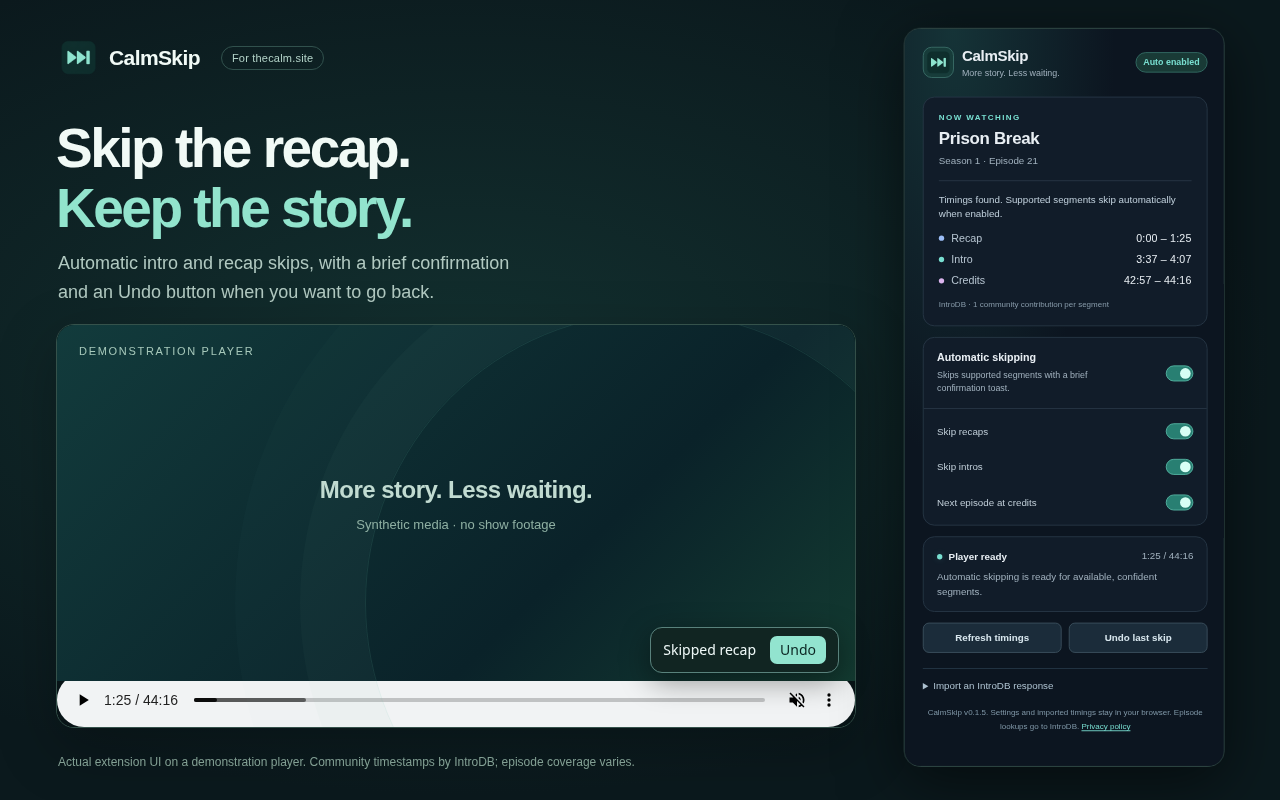
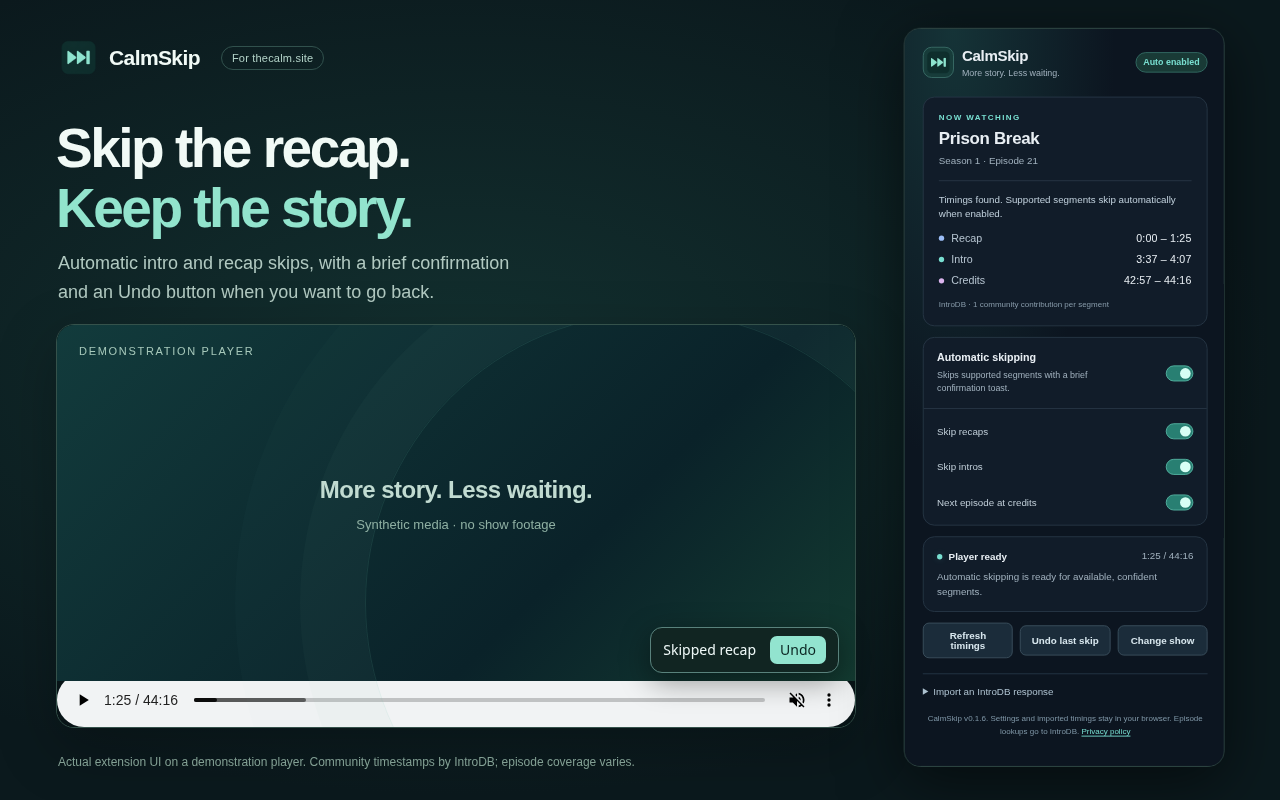
Prepare 0.1.6 update for the public CalmSkip listing

Changed region(s): [[0.7188, 0.7812, 0.9375, 0.9375]]

diff --git a/docs/store/SUBMISSION.md b/docs/store/SUBMISSION.md
@@ -1,6 +1,6 @@
 # CalmSkip submission fields and review instructions
 
-This file accompanies the release ZIP, icon, screenshots, [listing copy](LISTING.md), and [privacy policy](PRIVACY.md). It does not assert that a store item has been uploaded, approved, or published.
+These fields accompany the **0.1.6 update** ZIP, icon, screenshots, [listing copy](LISTING.md), and [privacy policy](PRIVACY.md). The existing public store version is 0.1.5; preparing these files does not upload or submit its update.
 
 ## Privacy practices: single purpose
 
@@ -12,27 +12,27 @@ Use the fields corresponding to the final release manifest. These descriptions c
 
 | Permission or host | Paste-ready justification |
 | --- | --- |
-| `storage` | Save the user's skip preferences, show-to-IMDb mappings, and a bounded local timestamp cache. Browser-session storage also keeps verified player frame associations so connected players survive background-worker suspension. These records are not synced to a developer server. |
+| `storage` | Save the user's skip preferences, show-to-IMDb mappings, and bounded local timestamp and automatic series-identification caches. Browser-session storage also keeps verified player frame associations so connected players survive background-worker suspension. These records are not synced to a developer server. |
 | `scripting` | Run the extension's packaged player controller and frame verification code inside an embedded video player after the user grants access to that host. This is necessary to read the HTML video's current time and perform the selected skip or Undo. No executable code is downloaded. |
 | `webNavigation` | Identify the frame/document hierarchy within a TheCalm episode tab and reconnect an already granted player when its document loads or redirects. Navigation events outside the supported episode context are discarded, rather than recorded as browsing history. |
 | `https://thecalm.site/*` and `https://www.thecalm.site/*` | Identify the current show, season, and episode; read primary metadata and visible player frames; display skip controls and confirmations; and follow the site's actual next-episode link. The extension can read a same-origin show/season page to resolve an episode chooser. |
-| `https://api.introdb.app/*` | Request community intro, recap, and credit timestamps using the current IMDb series ID, season, and episode. These HTTPS requests omit cookies and the page referrer. |
+| `https://api.introdb.app/*` | Request community intro, recap, and credit timestamps using the current IMDb series ID, season, and episode. When no series ID is available, search metadata using the show title derived from its URL. Requests omit cookies and the page referrer; full page/player URLs are not sent. |
 | Optional `https://*/*` | TheCalm embeds players on different HTTPS hosts, so their names cannot all be declared in advance. The extension requests access only to the particular player origin selected by the user with Connect player. It verifies the player belongs to the visible TheCalm embed before controlling it. It does not request access to every HTTPS site or operate those controls in unrelated tabs. |
 
 ### Remote code
 
-Answer **No** to using remotely hosted executable code. The player controller, background worker, popup, and frame verification functions are packaged in the extension. IntroDB supplies validated timestamp JSON, not executable code. Reading a TheCalm episode catalog supplies links, not code to evaluate.
+Answer **No** to using remotely hosted executable code. The player controller, background worker, popup, and frame verification functions are packaged in the extension. IntroDB supplies validated timestamps and series-identification JSON, not executable code. Reading a TheCalm episode catalog supplies links, not code to evaluate.
 
 ## Data usage disclosures
 
-Do not use a blanket “no user data” declaration. The extension handles the current episode's page/player information locally and sends episode identifiers to IntroDB. Google's [User Data FAQ](https://developer.chrome.com/docs/webstore/program-policies/user-data-faq) requires disclosure even when data stays on the device.
+Do not use a blanket “no user data” declaration. The extension handles the current episode's page/player information locally and sends episode identifiers, or the show title when needed for identification, to IntroDB. Google's [User Data FAQ](https://developer.chrome.com/docs/webstore/program-policies/user-data-faq) requires disclosure even when data stays on the device. Automatic show matches are cached locally, separately from saved mappings and cached timestamps; the privacy policy describes their limits and retention.
 
 Based on the current implementation, disclose these relevant categories using the dashboard's current definitions:
 
 | Category | What CalmSkip handles |
 | --- | --- |
-| Web history / browsing activity | The current TheCalm episode address and connected player addresses are processed to identify the supported episode and frames. IMDb series ID, season, and episode are sent to IntroDB for the requested feature. No general browsing-history log is created. |
-| Website content | Primary show/episode metadata, episode links, embedded player elements, video properties, and the timestamp response are read to operate the player. Video/audio content is not recorded or uploaded. |
+| Web history / browsing activity | The current TheCalm episode address and connected player addresses are processed to identify the supported episode and frames. IMDb series ID, season, and episode, or a show title when identification is needed, are sent to IntroDB for the requested feature. No general browsing-history log is created. |
+| Website content | Primary show/episode metadata, episode links, embedded player elements, video properties, timestamps, and series search results are read to operate the player. Video/audio content is not recorded or uploaded. |
 | User activity | Current playback position and play/pause/seek state, together with the user's extension controls, are used to decide and undo skips. There is no general click, keyboard, or advertising analytics logging. |
 
 The implementation does not read names, contact details, payment/health information, passwords, authentication cookies, private communications, or geolocation. Browser-managed same-origin cookies attached to a normal TheCalm request are not read or exported by the extension. IntroDB can receive ordinary network information such as IP addresses; that disclosure appears in the privacy policy, without claiming that CalmSkip reads geolocation.
@@ -62,12 +62,14 @@ Paste and complete the following private test instructions:
 7. Near 42:57, the credit marker should start a three-second next-episode countdown. Cancel keeps the episode open. Without cancellation, the extension follows a verified next-episode link, including through an episode chooser when supported. This intentionally can skip post-credit scenes.
 8. Turn Automatic skipping off to check manual controls. Turn individual feature switches off to verify they are respected. Reloading preserves the chosen settings and granted host access.
 9. An episode without usable timestamp data should keep playing without fabricated skip ranges. Community timing and availability can change; the privacy policy and listing explain these limits.
+10. For the 0.1.6 identification update, open `https://thecalm.site/shows/better-call-saul/season-1/episode-1?pl=0`. With usable IntroDB data, it should identify IMDb `tt3032476` without a manual mapping. Playing from about 6:05 should skip to 6:15 using the saved public fixture's intro range; there is no recap marker for this example. Ambiguous series can be chosen in the popup, and **Change show** allows a mapping correction. See [checked examples](../OTHER_SHOWS.md) for coverage limits.
 
 For an API outage only, the popup's Import an IntroDB response accepts the matching public response saved in `tests/fixtures/prison-break-s01e21.json`. This imports timestamp JSON, not video or executable code. A matching import is not a substitute for a playable TheCalm episode.
 
 ## Distribution and final submission
 
 - Visibility: **Public**, as requested by the publisher.
+- For 0.1.6, use **Package → Upload new package** on the existing CalmSkip item, rather than creating another item. Update the `storage` and IntroDB host explanations above; there are no added permissions, hosts, or data categories.
 - Upload the release ZIP containing `manifest.json` at its root; do not upload a ZIP containing the whole repository or a nested ZIP.
 - Upload the 128×128 extension icon and at least one screenshot at the dimensions required by the dashboard. Keep screenshots consistent with the released UI.
 - Complete the publisher/account contact verification, privacy fields, and private reviewer access instructions.

diff --git a/docs/CHROME_WEB_STORE.md b/docs/CHROME_WEB_STORE.md
@@ -22,7 +22,7 @@ The unpacked extension remains the development version:
 - After a change, click **Reload** for CalmSkip in `brave://extensions`, then reopen the episode. An unpacked extension does not automatically reload when its files change.
 - The store account is not used by the sync script. Development updates do not require a store review.
 
-A later store release is a separate workflow:
+A first store release is a separate workflow:
 
 1. Run the tests and package command from the repository, or download the package artifact from a passing **Checks** run in GitHub Actions. Extract the downloaded artifact and use the contained `thecalm-skip.zip` for the store upload.
 2. Prepare the store listing assets, screenshots, description, privacy disclosures, and testing instructions. The existing development ZIP is not proof that those submission requirements are complete.
@@ -41,19 +41,33 @@ All visibility options still undergo Google's review. Do not expect an unlisted 
 
 Brave supports installing Chrome Web Store extensions through the listing's **Add to Brave** button. Once the store version is installed, disable the unpacked development copy when using the store version so two copies do not operate on the same player.
 
-## Publish CalmSkip 0.1.5
+## Update the existing listing to 0.1.6
 
-The prepared release is **public and searchable**. It includes the original mint/teal skip icon and the actual extension interface in clearly labeled demonstration screenshots. These assets do not claim that the demonstration video is a playable episode from TheCalm.
+[CalmSkip is public](https://chromewebstore.google.com/detail/calmskip/ffikdfibljniiabnkgpihdpdhheammlo) at **v0.1.5**. Version **0.1.6** adds automatic series identification beyond Prison Break, show-match selection and correction, and clearer missing-timestamp status. A GitHub push or local sync does not update the store: upload the new ZIP to the **existing item**, then submit that update for review.
 
-Stop an existing watcher with **Ctrl+C** before pulling, because the rename also updates its compatibility checks. Then create the upload ZIP using Windows PowerShell; Node.js and Python are unnecessary for this step:
+Stop an existing watcher with **Ctrl+C** before pulling. In the Windows `development` checkout, create the upload ZIP using PowerShell; Node.js and Python are unnecessary for this step:
 
 ```powershell
 Set-Location "$HOME\source\TheCalm"
 git pull --ff-only
-Compress-Archive -Path .\extension\* -DestinationPath "$HOME\Downloads\CalmSkip-0.1.5.zip" -Force
+Get-Content .\extension\manifest.json | ConvertFrom-Json | Select-Object name, version
+Compress-Archive -Path .\extension\* -DestinationPath "$HOME\Downloads\CalmSkip-0.1.6.zip" -Force
 ```
 
-The ZIP must contain `manifest.json` at its root, alongside the extension scripts and `icons` folder. Upload **CalmSkip-0.1.5.zip** from Downloads using **Add new item** in the developer dashboard.
+Confirm the version output is **0.1.6**. The ZIP must contain `manifest.json` at its root, alongside the extension scripts and `icons` folder.
+
+1. Open the [existing CalmSkip dashboard item](https://chrome.google.com/webstore/devconsole/ab89a478-5b96-48cb-a4d0-1d83c227760c/ffikdfibljniiabnkgpihdpdhheammlo/edit/package).
+2. Under **Package**, choose **Upload new package**, select **CalmSkip-0.1.6.zip** from Downloads, and confirm the draft package version.
+3. Refresh the listing description and screenshots from the files below. In **Privacy**, update the `storage` and IntroDB host explanations to include the title lookup and local show-match cache, using [the submission fields](store/SUBMISSION.md). The data categories, privacy policy URL, and **No remote code** answer remain the same. Version 0.1.6 adds no permissions or hosts.
+4. Retain working private reviewer access instructions and the **Public** distribution setting. Save the draft, then choose **Submit for review**. Leave automatic publication after approval enabled if you want the update released as soon as Google approves it.
+
+The public 0.1.5 listing stays available while Google reviews the update. After 0.1.6 is published, store-installed copies receive it through the browser's normal extension updater; unpacked copies still need their usual sync and reload. Uploading to this existing item preserves its listing URL and users.
+
+The cloud tools cannot operate the signed-in developer dashboard. Preparing this package does not upload, submit, or publish 0.1.6.
+
+## Listing assets and reviewer access
+
+The release is **public and searchable**. It includes the original mint/teal skip icon and the actual extension interface in clearly labeled demonstration screenshots. These assets do not claim that the demonstration video is a playable episode from TheCalm.
 
 Complete the listing with these files from the checkout:
 
@@ -68,7 +82,7 @@ Complete the listing with these files from the checkout:
 
 TheCalm’s playable pages require a signed-in session. Enter working reviewer access instructions privately in Google’s **Test instructions** field before submitting. The extension itself has no account; this release has not created or verified a separate TheCalm review account.
 
-After the actual dashboard fields, assets, account verification, and reviewer access are complete, use **Submit for review**. Google decides approval and publication timing. The cloud tools cannot operate your signed-in developer dashboard, so creating this release package does not upload or submit the item.
+Google decides approval and publication timing. A new package needs another review even though the first version is already public.
 
 To resume local development afterward, use the watch command in [the Windows development guide](DEVELOPMENT_WINDOWS.md#upgrading-the-name-to-calmskip). Keep one enabled extension copy when testing the store build.
 
@@ -79,6 +93,7 @@ To resume local development afterward, use the watch command in [the Windows dev
 - [2-Step Verification requirement](https://developer.chrome.com/docs/webstore/program-policies/two-step-verification)
 - [Distribution and visibility](https://developer.chrome.com/docs/webstore/cws-dashboard-distribution)
 - [Publish in the Chrome Web Store](https://developer.chrome.com/docs/webstore/publish)
+- [Update an existing Chrome Web Store item](https://developer.chrome.com/docs/webstore/update)
 - [Brave: adding extensions](https://support.brave.com/hc/en-us/articles/360017909112-How-can-I-add-extensions-to-Brave)
 
-The account requirements and links above were checked against the official documentation on October 28, 2026. Follow any additional account or verification prompts shown by Google for your circumstances.
+The account requirements were checked against the official documentation on October 28, 2026; the update workflow and public 0.1.5 listing were checked on October 31, 2026. Follow any additional account or verification prompts shown by Google for your circumstances.

diff --git a/README.md b/README.md
@@ -2,11 +2,13 @@
 
 A Brave-compatible browser extension that uses [IntroDB](https://introdb.app) community timestamps to skip recaps and intros on **thecalm.site**, and move to the next episode at the credits. It runs in your browser and needs no Netflix account, API key, or backend server.
 
-For development updates without manually replacing ZIPs, see [Windows development setup](docs/DEVELOPMENT_WINDOWS.md). It syncs a local checkout of the `development` branch into the existing Brave installation, with backups. The browser still needs a **Reload** click after extension files change. Registration and later store publishing are covered in [Chrome Web Store setup](docs/CHROME_WEB_STORE.md); a store account is not needed for unpacked development.
+For development updates without manually replacing ZIPs, see [Windows development setup](docs/DEVELOPMENT_WINDOWS.md). It syncs a local checkout of the `development` branch into the existing Brave installation, with backups. The browser still needs a **Reload** click after extension files change. Store installation and publishing are covered in [Chrome Web Store setup](docs/CHROME_WEB_STORE.md); a store account is not needed for unpacked development.
 
-The public store release is prepared as **CalmSkip v0.1.5**, with original icons, demonstration screenshots of the real interface, [listing copy](docs/store/LISTING.md), a [privacy policy](docs/store/PRIVACY.md), and [submission fields](docs/store/SUBMISSION.md). See [the publishing guide](docs/CHROME_WEB_STORE.md#publish-calmskip-015) to package it on Windows and submit it in Google’s dashboard. This repository does not establish store approval or publication.
+[CalmSkip is public in the Chrome Web Store](https://chromewebstore.google.com/detail/calmskip/ffikdfibljniiabnkgpihdpdhheammlo) as **v0.1.5**. The current source is **v0.1.6**, with automatic identification for other shows. That update is ready to package but has not been uploaded to the store. Follow [the existing-listing update guide](docs/CHROME_WEB_STORE.md#update-the-existing-listing-to-016) to submit it; pushing this repository does not update store installations.
 
-## Install in Brave
+## Install the development build in Brave
+
+For the published release, install [CalmSkip from the Chrome Web Store](https://chromewebstore.google.com/detail/calmskip/ffikdfibljniiabnkgpihdpdhheammlo). The following steps install the newer development build as an unpacked extension. Keep one enabled copy when testing.
 
 1. Download and extract `dist/thecalm-skip.zip`, or use this checkout's `extension` directory directly.
 2. Open `brave://extensions`, enable **Developer mode**, and choose **Load unpacked**.
@@ -38,7 +40,7 @@ For a player hosted inside another website's iframe, choose its host under the p
 
 There is no local AI detection or Netflix importer. Identifying a series and finding its timestamps are separate steps: an episode without usable IntroDB timestamps keeps playing normally. See [other-show support](docs/OTHER_SHOWS.md) for the checked Better Call Saul and Simpsons examples.
 
-The pending Chrome Web Store submission is still **v0.1.5**. The other-show improvements are in **development v0.1.6**; pushing source does not change the bundle already submitted to Google.
+The public Chrome Web Store release is **v0.1.5**. The other-show improvements are in **development v0.1.6**, ready for a separate [store update submission](docs/CHROME_WEB_STORE.md#update-the-existing-listing-to-016).
 
 ## Timing checks and limitations
 

diff --git a/docs/store/LISTING.md b/docs/store/LISTING.md
@@ -1,6 +1,6 @@
 # CalmSkip — Chrome Web Store listing
 
-Copy the text below into the matching store fields. The first release is **public and searchable**, as selected by the publisher. Submission still requires Google's review.
+Copy the text below into the matching store fields for the **0.1.6 update**. CalmSkip 0.1.5 is already public and searchable. The update requires a separate upload and review on the existing item.
 
 ## Name
 
@@ -20,12 +20,13 @@ CalmSkip uses IntroDB community timestamps to skip supported episode recaps and 
 • Keep your selected player when following the next episode.
 • Control recap skipping, intro skipping, and next episode separately.
 • Switch to manual mode when you prefer skip buttons.
+• Identify series automatically, choose between ambiguous matches, or correct a show mapping.
 
 To get started, open a TheCalm episode, start playback, and open CalmSkip from your browser's extensions menu. If the video is embedded on another website, choose its host and use Connect player to grant access to that host. Previously connected players reconnect automatically within TheCalm episode tabs.
 
 Coverage depends on IntroDB's community timestamps. Episodes without usable data keep playing normally. Different video edits can have different timing, so Undo and manual mode are available. Advancing at credits can skip a post-credit scene.
 
-CalmSkip processes the current episode's page and player information to operate. It sends the IMDb series ID, season, and episode to IntroDB to request timestamps. Preferences and cached timings are stored locally. There is no CalmSkip account, advertising, analytics, or developer-operated tracking server. See the privacy policy for the complete data handling details.
+CalmSkip processes the current episode's page and player information to operate. It sends the IMDb series ID, season, and episode to IntroDB to request timestamps. When a series cannot otherwise be identified, it also sends the show title derived from its URL to IntroDB's metadata search. These requests omit cookies, the page referrer, and full page/player URLs. Preferences, show mappings, cached show matches, and cached timings are stored locally. There is no CalmSkip account, advertising, analytics, or developer-operated tracking server. See the privacy policy for the complete data handling details.
 
 Use your existing TheCalm access to watch episodes. CalmSkip does not host, supply, or download videos.
 
@@ -37,7 +38,7 @@ CalmSkip is an independent extension and is not affiliated with or endorsed by T
 | --- | --- |
 | Language | English |
 | Category | Choose the closest entertainment/video category offered by the dashboard. |
-| Website | https://github.com/richhiiee/TheCalm |
+| Website | https://github.com/richhiiee/TheCalm/tree/development |
 | Support | https://github.com/richhiiee/TheCalm/issues |
 | Privacy policy | https://github.com/richhiiee/TheCalm/blob/development/docs/store/PRIVACY.md |
 | Distribution visibility | Public |

diff --git a/docs/OTHER_SHOWS.md b/docs/OTHER_SHOWS.md
@@ -21,8 +21,8 @@ To check Better Call Saul, play from about **6:05** with automatic skipping on; 
 
 An alternative provider's Simpsons marker was also inspected, but its reported confidence was about 0.284, below the extension's 0.9 threshold. It is not used, and the extension's confidence requirement is unchanged. No additional timing provider or host permission was added.
 
-## Development update and store review
+## Development and store updates
 
 Pull the `development` branch, run the existing Windows sync watcher, reload CalmSkip in `brave://extensions`, and reopen the episode. The popup footer should show **v0.1.6**. If the old watcher has not been restarted since the CalmSkip rename, follow the one-time restart in [the Windows guide](DEVELOPMENT_WINDOWS.md#upgrading-the-name-to-calmskip).
 
-The already submitted Chrome Web Store bundle remains **v0.1.5**. These development changes do not upload a replacement, cancel the pending review, or update a store installation automatically.
+[The public Chrome Web Store listing](https://chromewebstore.google.com/detail/calmskip/ffikdfibljniiabnkgpihdpdhheammlo) currently provides **v0.1.5**. Version **0.1.6** is ready for a store update but has not been uploaded. Follow [the existing-listing update guide](CHROME_WEB_STORE.md#update-the-existing-listing-to-016) to package and submit it. Development pushes do not change the public store bundle; store installations receive the newer version after it is submitted, approved, and published.

diff --git a/docs/store/assets/README.md b/docs/store/assets/README.md
@@ -2,6 +2,8 @@
 
 Upload `icon-128.png` as the store icon and the two `screenshot-*.png` files as listing screenshots. Both screenshots are 1280×800 RGB PNGs showing the production extension UI with clearly labeled synthetic demonstration playback. No show footage or posters are included.
 
+The screenshots are refreshed for the 0.1.6 update. Upload them on the existing CalmSkip item with that package; they do not claim that the update is already public.
+
 `icon-source.png` is the original generated artwork. `icon-512.png` is a larger export for future branding. The four runtime PNG sizes are in `extension/icons/` and are included in the extension ZIP.
 
 Regenerate the icon exports and screenshots from this checkout with Node.js, the locked development dependencies, and Chromium:
